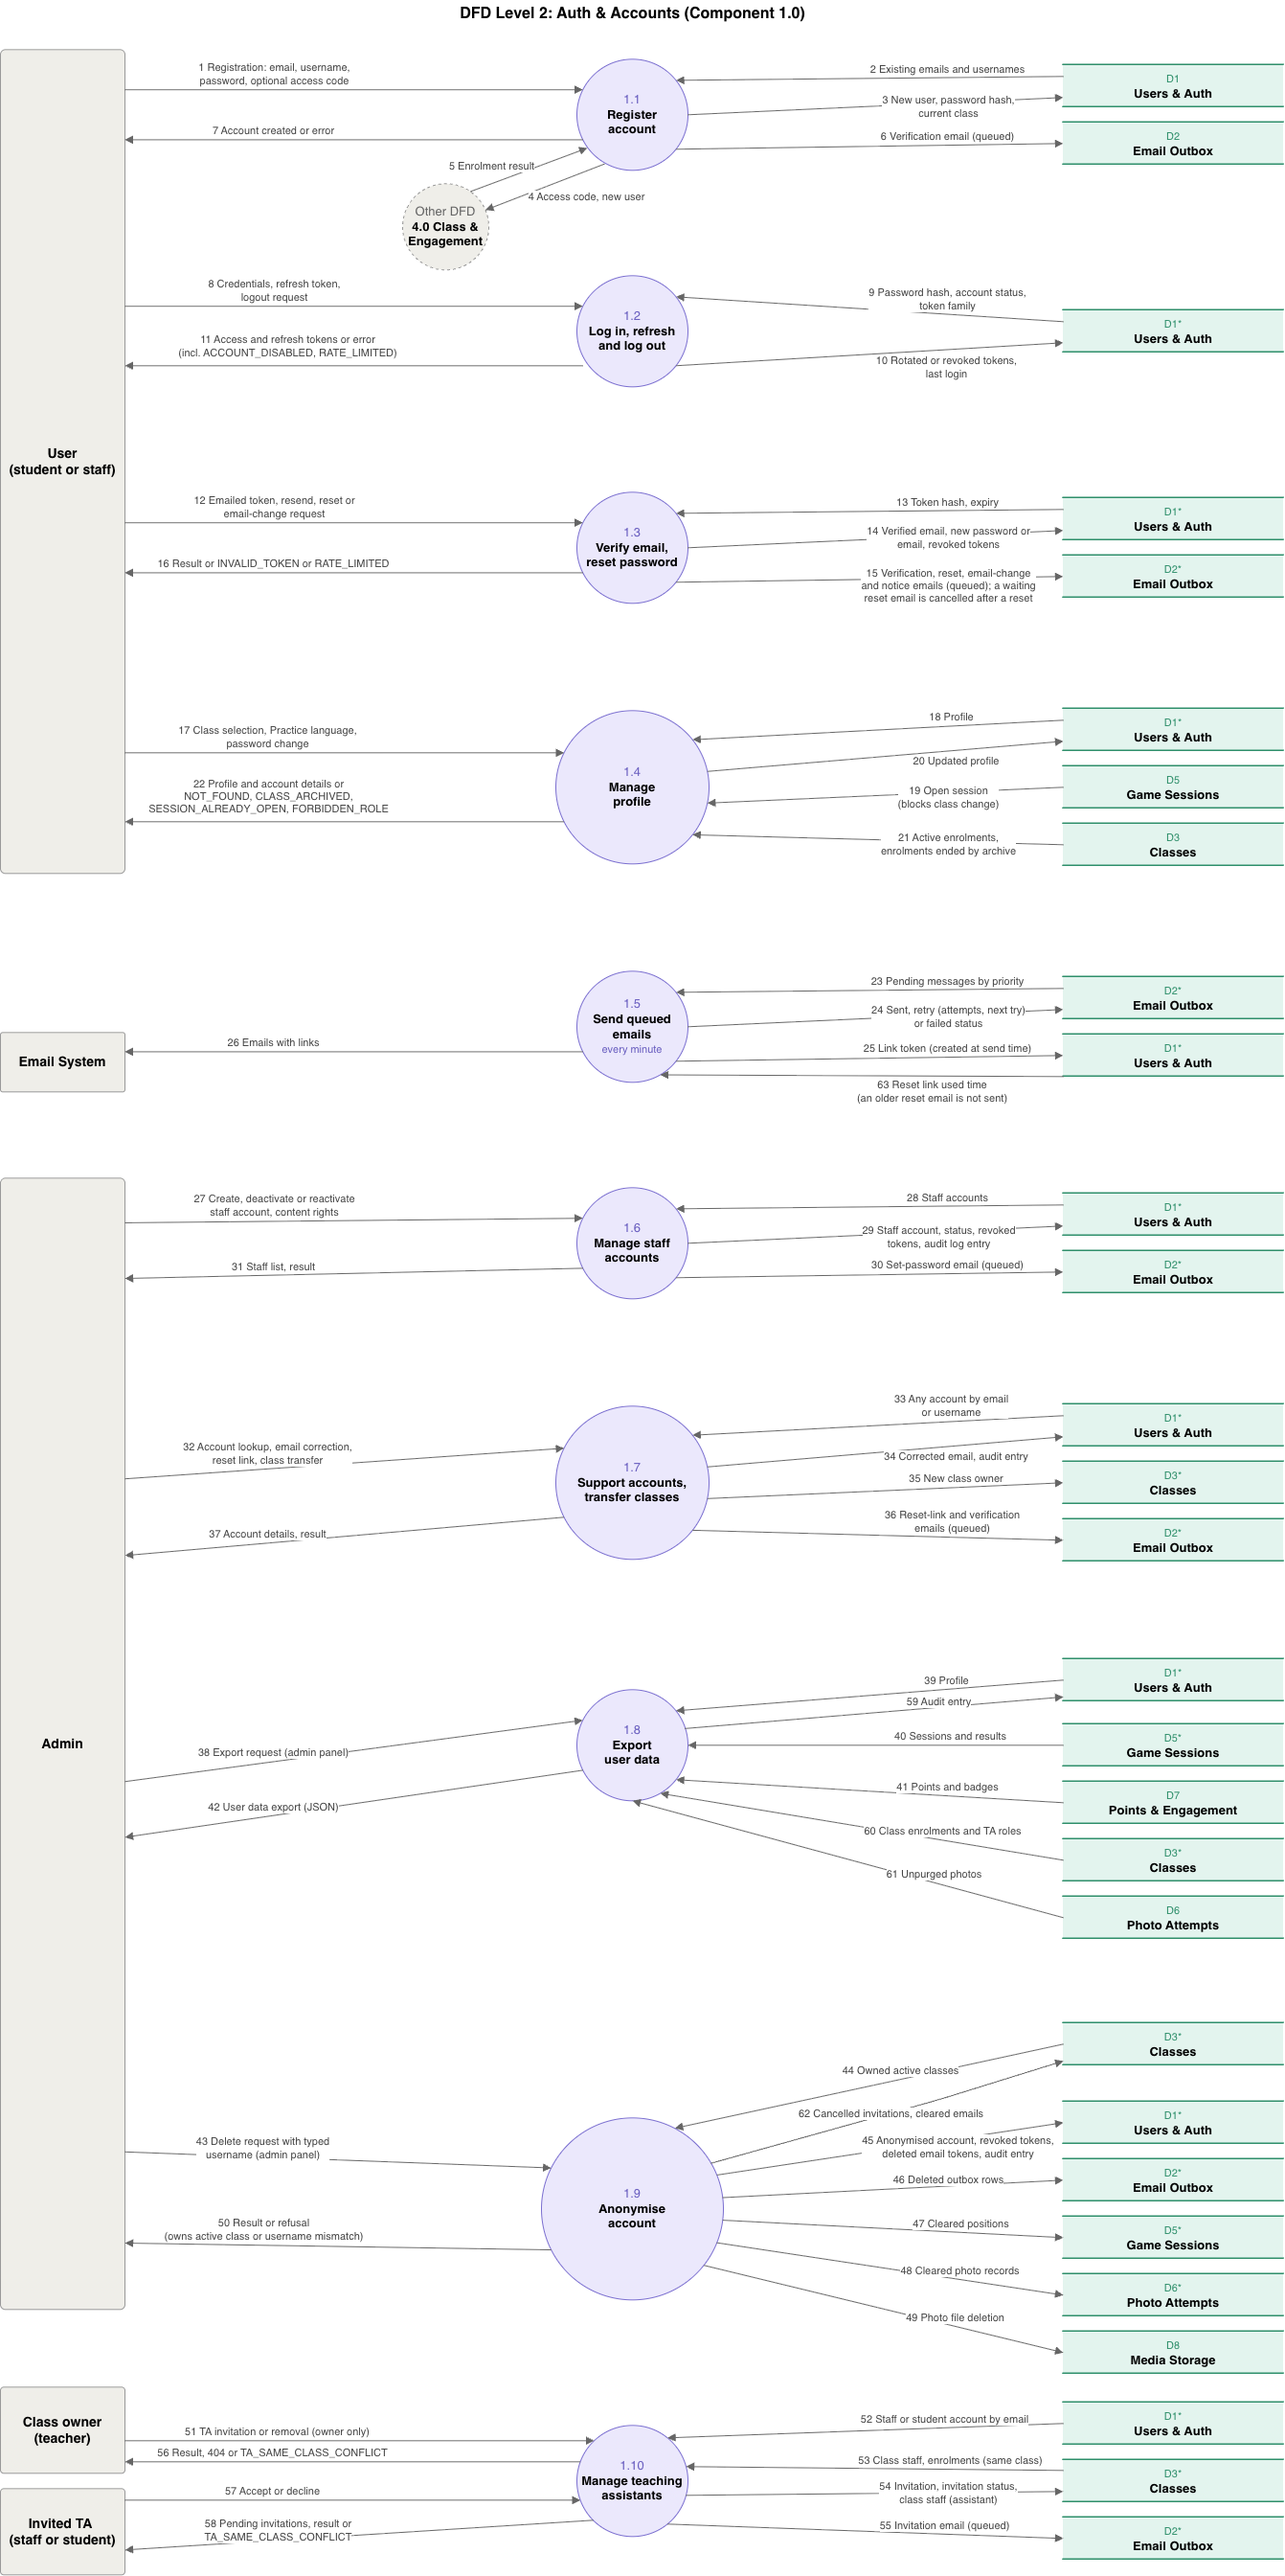
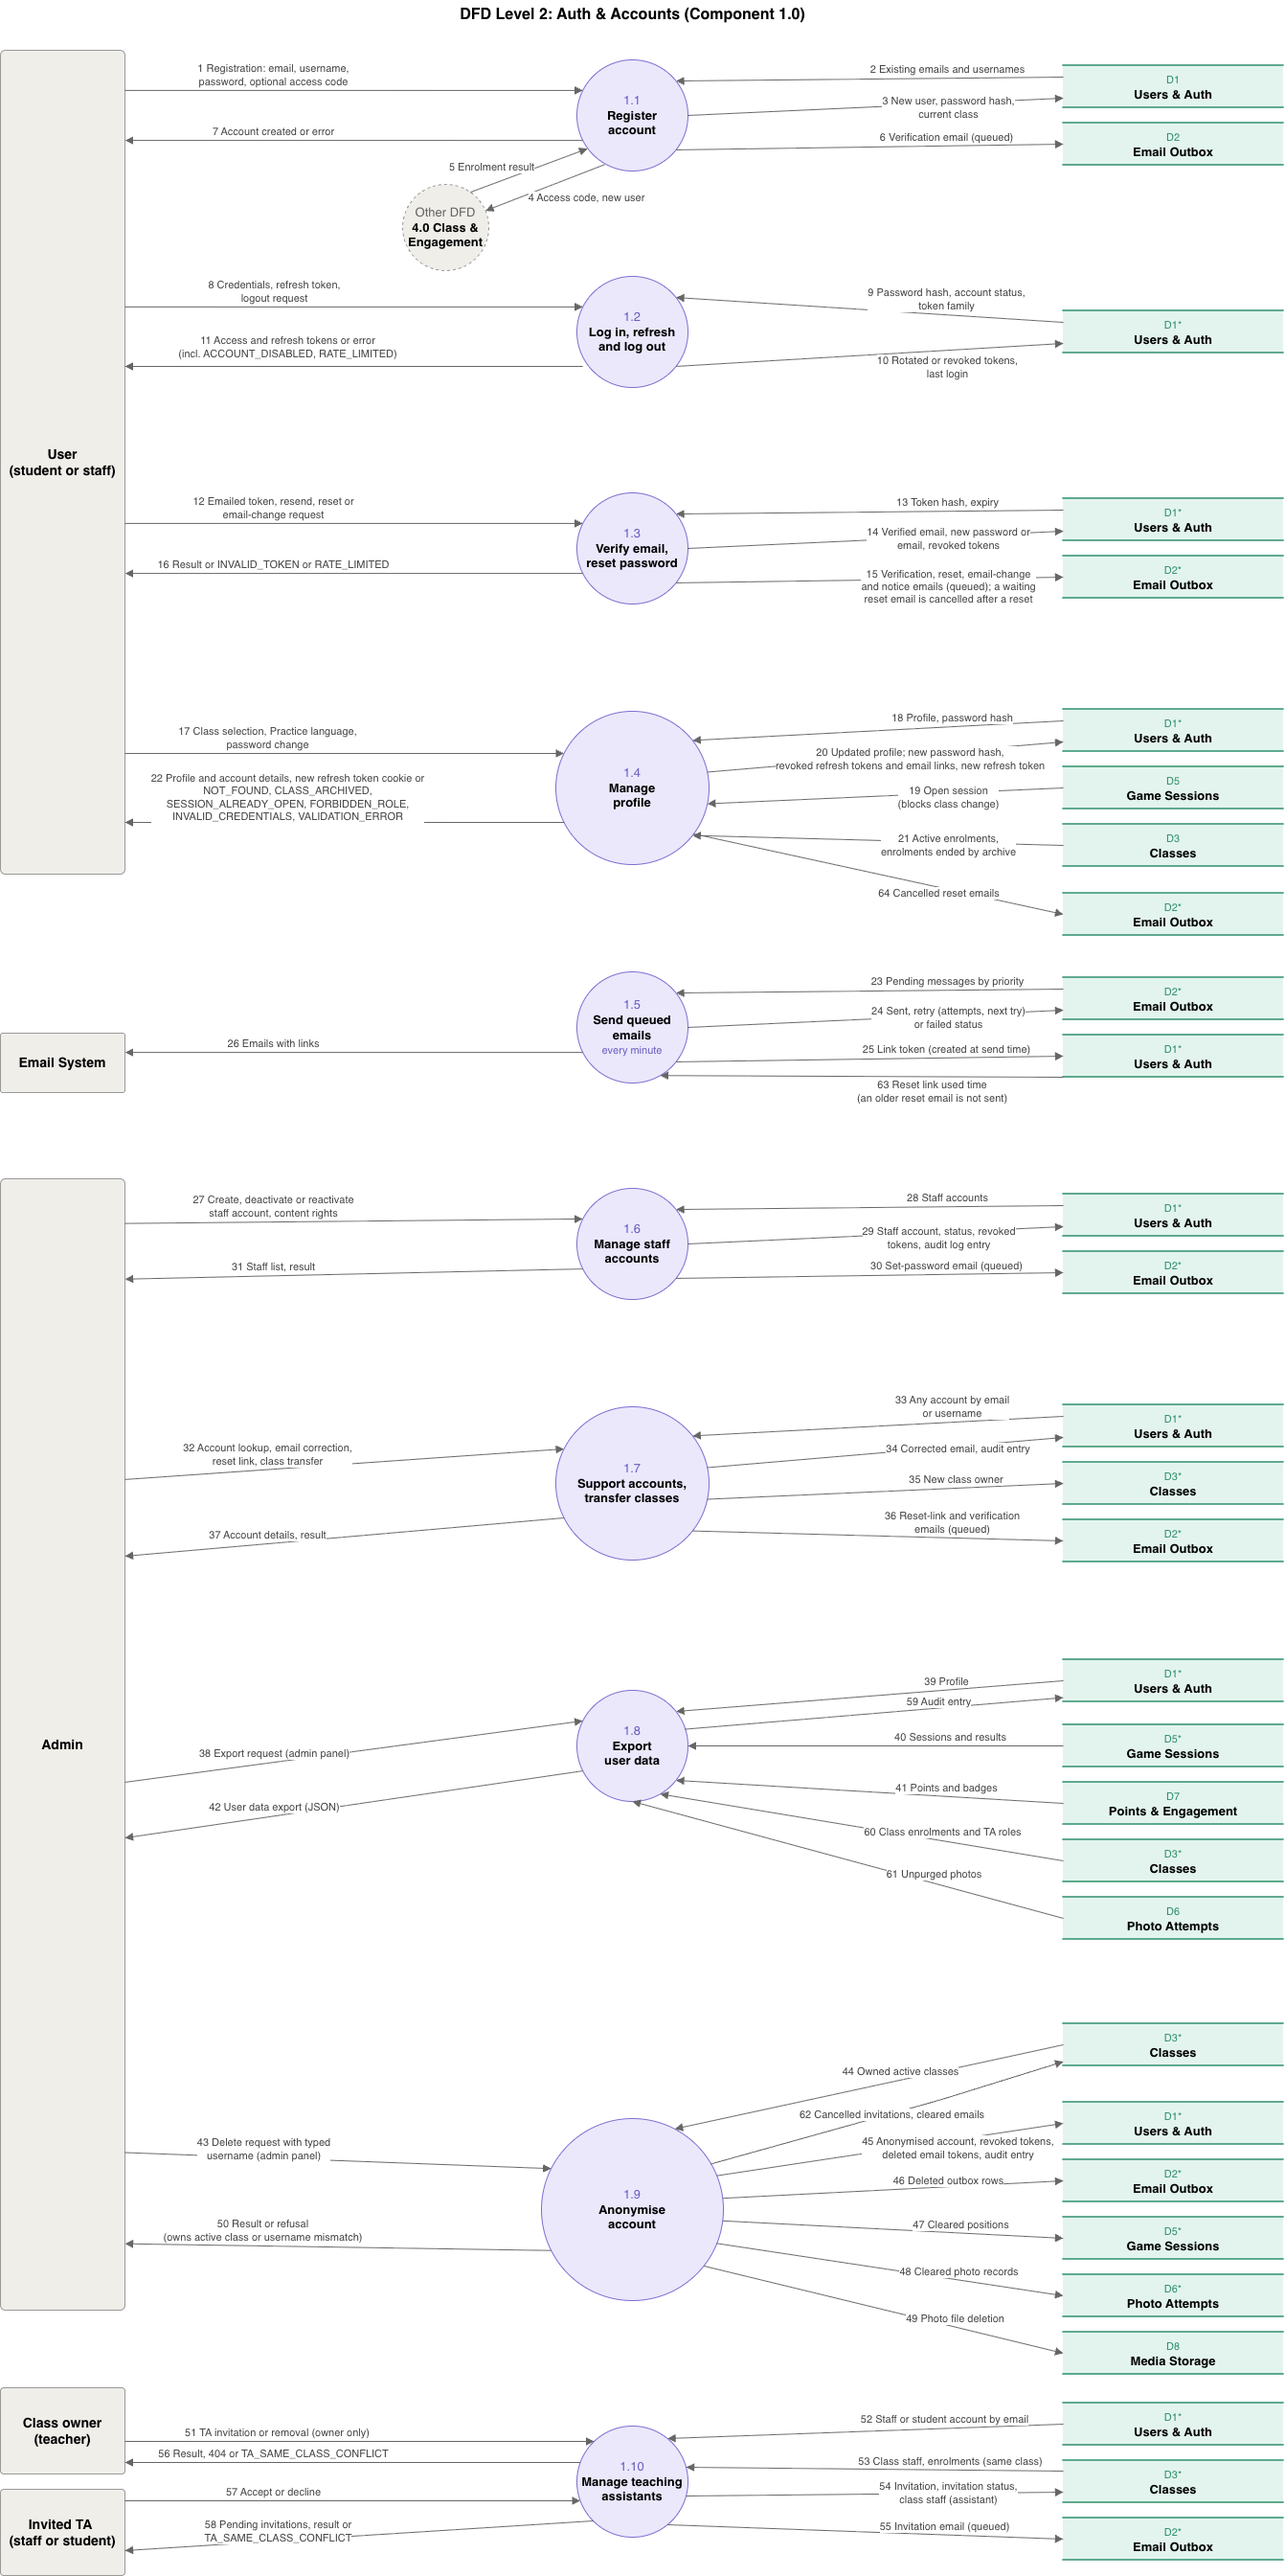
docs: update the week 11 team log with the last merges and the change-password flows

diff --git a/logs/team/week-11.md b/logs/team/week-11.md
@@ -11,8 +11,8 @@ This week, we decided to focus on merging the stacks left open in week 10, with 
 Only PRs merged into `origin/main` between Nov 16 and Nov 22 count as merged. Details are in each person's individual log.
 
 - **Mia** focused on rate limits (#322), class staff checks on the routes (#378), the A4 response scan (#71) and CI.
-  - *Merged:* 11 PRs, 50 files, +1,087/-657: #375, #377, #379, #380, #383, #388, #390, #392, #394, #396 and #399. See `logs/MiaKuang/week-11.md`.
-  - *Not merged yet:* #401, #402, #403, #404, #442, #446 and #451.
+  - *Merged:* 13 PRs, 53 files, +1,110/-674: #375, #377, #379, #380, #383, #388, #390, #392, #394, #396, #399, #451 and #454. See `logs/MiaKuang/week-11.md`.
+  - *Not merged yet:* #401, #402, #403, #404, #442 and #446.
 - **Eddy** focused on photo verification (A10) and reading content from the database (A20).
   - *Merged:* 17 PRs, 81 files, +4,369/-825: #301, #303, #321, #341, #342, #344, #346, #374, #376, #386, #387, #391, #397, #398, #405, #408 and #409.
   - *Not merged yet:* #296 and #304.
@@ -20,8 +20,8 @@ Only PRs merged into `origin/main` between Nov 16 and Nov 22 count as merged. De
   - *Merged:* 14 PRs, 60 files, +4,838/-144: #356, #357, #359, #360, #362, #363, #365, #367, #369, #370, #371, #372, #382 and #384.
   - *Not merged yet:* 14 PRs for the A5, A6, A12, A16 and A17 follow-ups.
 - **Kaedyn** focused on the account routes (A22, A24) and the admin API (A27).
-  - *Merged:* 2 PRs, 7 files, +458/-11: #323 (logout) and #324 (profile).
-  - *Not merged yet:* #325, #410, #415, #439, #440 and #445.
+  - *Merged:* 3 PRs, 13 files, +804/-55: #323 (logout), #324 (profile) and #325 (change password).
+  - *Not merged yet:* #410, #415, #439, #440 and #445.
 
 We considered two other workload distributions (Mia considered). First, #322 could have stayed with Kaedyn, who wrote the first rate limit. Mia took it because Kaedyn's admin API (A27) was already late. Second, Mia could have taken over A21 (#77) as well, since Eddy's photo purge (#94) is blocked on it. We kept A21 with Kaedyn and asked him to do it first. All of his remaining work must be merged, not just opened, by Nov 29. Anything not merged by then moves to the rest of the team. If that happens, we will all talk to the professor at office hours on Dec 3 about how the work is split.
 
@@ -36,20 +36,20 @@ The demo ran on the real backend from Mia's machine, and we played it on our pho
 
 ## Goal evaluation
 
-Based on the merged PRs on main, we met most of the goal (observed: main log). 44 PRs were merged: 17 by Eddy, 14 by Fabiha, 11 by Mia and 2 by Kaedyn.
+Based on the merged PRs on main, we met most of the goal (observed: main log). 47 PRs were merged: 17 by Eddy, 14 by Fabiha, 13 by Mia and 3 by Kaedyn.
 
 - **Met:** a game can now finish a location from a photo, with content read from the database. Streaks, daily challenges, the class leaderboard and class analytics are on main. #322 (rate limits) and #71 (A4) are closed. The Nov 19 client demo ran on this code (see above).
-- **Not met:** the admin API (A27) and change password are still open. Most of the repeated-code refactors are open too.
+- **Not met:** the admin API (A27) is still open. Most of the repeated-code refactors are open too.
 - **Challenges:** most stacks merged on the evening of Nov 17. Three of us reviewed and merged them together, just before the demo. Reviews of the newer stacks came on Nov 21 and 22.
 - **Over the size limit:** #372 (participation export) changed 565 lines. The export and its tests landed in one PR (inferred from its diff).
 - **Files over 500 lines:** `api/v1/classes.py` grew from 470 to 745 lines with the A16 routes. `engagement/interface.py` (726), `tests/backend/conftest.py` (686) and `tests/backend/test_engagement_interface.py` (812) were already over and grew. Each holds one kind of code for a whole component. Splitting them by feature is a follow-up.
 - **Plan for next week:** merge the open PRs early in the week, then the work in Next week.
-- **Limitation:** two merged PRs don't show how far Kaedyn's work is behind. Sign-in (A2) is still open from M1-1, due Oct 11. A27 was due Oct 25, and its first PRs opened on Nov 19 (observed: PR list). He has merged 15 PRs into main this term, against 39 to 85 for each of the rest of us.
+- **Limitation:** three merged PRs don't show how far Kaedyn's work is behind. Sign-in (A2) is still open from M1-1, due Oct 11. A27 was due Oct 25, and its first PRs opened on Nov 19 (observed: PR list). He has merged 16 PRs into main this term, against 39 to 87 for each of the rest of us.
 
 ## Code quality
 
-- **Similar logic implemented multiple times:** Mia ran a duplicate-code scan on main and checked it by hand (#400). It found repeated game errors, class name checks and staff lookups. Therefore, Mia opened #404 and #446, which are not merged yet. On main, #388 removed four copies of the class role query. Eddy's #386 lets the photo route reuse the game actions' runner instead of copying it (DRY).
-- **Many dependencies between modules:** `utils/dep_graph.py --check` passes at the end of the week (observed: 88 modules, 371 import edges, no rule broken). The photo route links game and verification through their interfaces only.
+- **Similar logic implemented multiple times:** Mia ran a duplicate-code scan on main and checked it by hand (#400). It found repeated game errors, class name checks and staff lookups. Therefore, Mia opened #404 and #446, which are not merged yet. On main, #388 removed four copies of the class role query. Eddy's #386 lets the photo route reuse the game actions' runner instead of copying it (DRY). Kaedyn's #325 shares the reset-mail cancel and the refresh cookie code with the existing routes.
+- **Many dependencies between modules:** `utils/dep_graph.py --check` passes at the end of the week (observed: 88 modules, 376 import edges, no rule broken). The photo route links game and verification through their interfaces only.
 - **Changes in one component require changes elsewhere:** only #388 changed two components (observed: files changed per PR). It moved the role checks out of four engagement services into one accounts dependency. Engagement can't import accounts, so the check had to move to the routes.
 
 Now, the team can confirm that the merged code has no new repeated logic and no rule-breaking dependencies. The remaining duplication is tracked in #400 and #354.
@@ -61,7 +61,7 @@ We updated the DFDs this week, based on main as of Nov 19.
 - **Level 0 (context):** **Updated.** The Scheduler is no longer an external entity, because it runs inside our system. Content Manager is now labelled as a staff account with content rights, not a fourth account type.
 - **Level 1 (overview):** **New.** It shows the five components, the flows between them, the stores D1 to D8 and the scheduler container. Its flows were checked against every Level 2 diagram.
 - **Level 2:** the component diagrams were renamed from Level 1 to Level 2.
-  - 1.0 Auth & Accounts: 1.5 Send queued emails **Updated** (runs every minute; skips a reset email whose link was already used). Other processes (not changed).
+  - 1.0 Auth & Accounts: 1.4 Manage profile **Updated** (changing the password revokes every refresh token, stops unused email links and cancels a waiting reset email, #325). 1.5 Send queued emails **Updated** (runs every minute; skips a reset email whose link was already used). Other processes (not changed).
   - 2.0 Game Session: 2.2 Serve current location and 2.5 Control session **Updated** (quit and a skipped last location return the game summary). 2.8 Expire idle sessions **Updated** (every 5 minutes). Other processes (not changed).
   - 3.0 Photo Verification: 3.7 Purge old photos **Updated** (marked not yet scheduled). Other processes (not changed).
   - 4.0 Class & Engagement: 4.6 Report engagement **Updated** (sends a game's level and badges to the game summary). Other processes (not changed).
